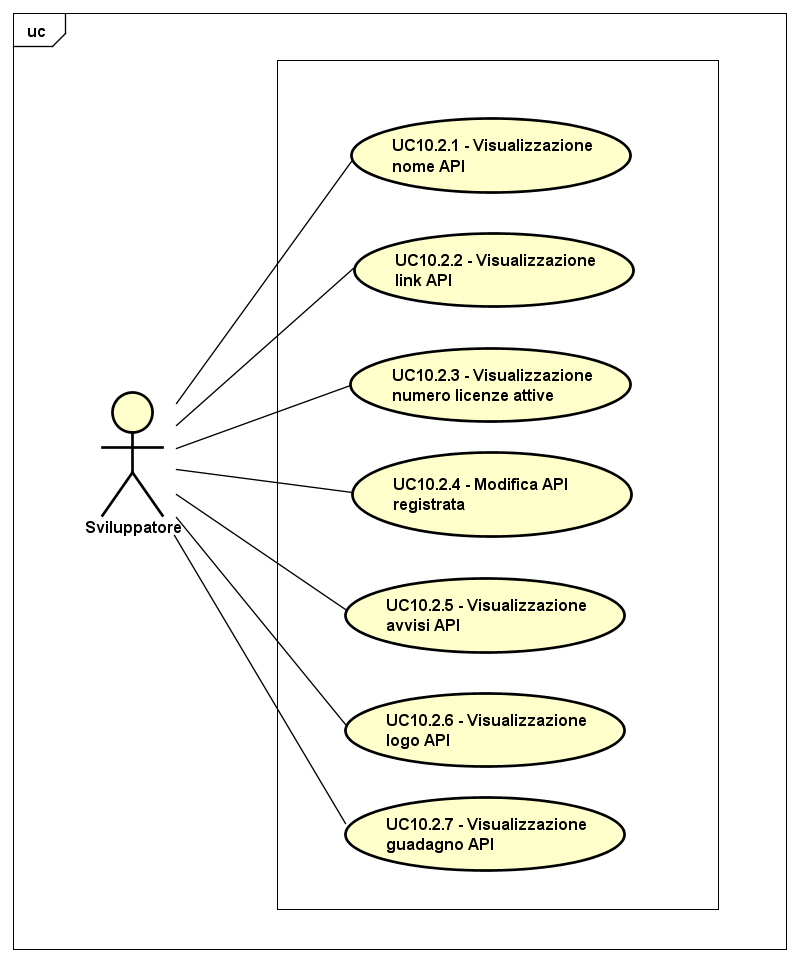
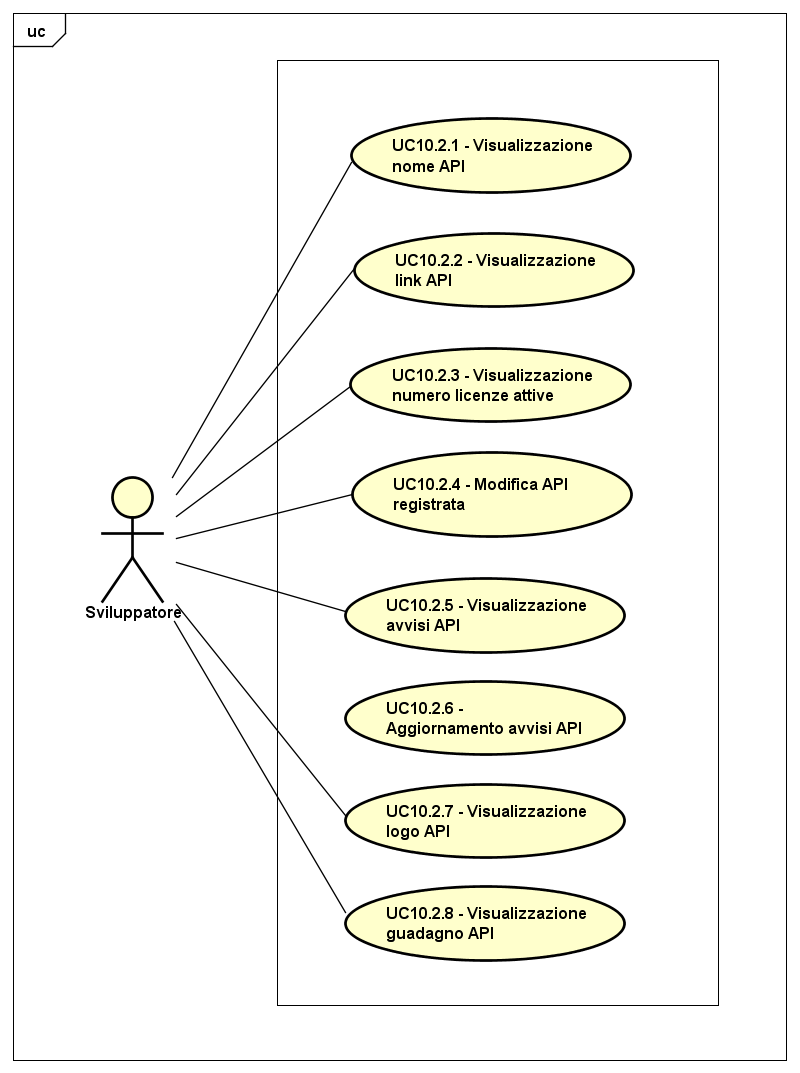
Aggiunte 2 funzionalità
+aggiornamento avvisi da parte dello sviluppatore
+visualizzazione interfaccia tramite testo e link download

diff --git a/Docs/RP/Analisi dei requisiti/includes/UseCase/UC14.tex b/Docs/RP/Analisi dei requisiti/includes/UseCase/UC14.tex
@@ -183,11 +183,11 @@
 \end{minipage}
 
 \newpage
-\subparagraph{Caso d'uso UC14.1.1.1.1.5: Visualizzazione utenti con licenza attiva}
-\label{UC14_1_1_1_1_5}
+\subparagraph{Caso d'uso UC14.1.1.1.5: Visualizzazione utenti con licenza attiva}
+\label{UC14_1_1_1_5}
 \begin{figure}[ht]
 	\centering
-	\includegraphics[scale=0.45]{UML/UC14_1_1_1_1_5.png}
+	\includegraphics[scale=0.45]{UML/UC14_1_1_1_5.png}
 	\caption{UC14.1.1.1.5: Visualizzazione utenti con licenza attiva}
 \end{figure}
 
@@ -195,7 +195,7 @@
 	\begin{tabular}{ l | p{11cm}}
 		\hline
 		\rowcolor{Gray}
-		\multicolumn{2}{c}{UC14.1.1.1.1.5 - Visualizzazione utenti con licenza attiva} \\
+		\multicolumn{2}{c}{UC14.1.1.1.5 - Visualizzazione utenti con licenza attiva} \\
 		\hline
 		\textbf{Attori} & Amministratore API Market \\
 		\textbf{Descrizione} & L'attore ha scelto una API e visualizza una lista di utenti con licenze attive per l'API scelta\\
@@ -203,20 +203,20 @@
 		\textbf{Post-Condizioni} & L'attore ha visualizzato la lista di utenti con licenze attive per l'API scelta \\
 		\textbf{Scenario Principale} & 
 		\begin{enumerate*}[label=(\arabic*.),itemjoin={\newline}]
-			\item L'attore può visualizzare il nome di ogni utente con licenza attiva per l'API scelta (UC14.1.1.1.1.5.1)
-			\item L'attore può visualizzare la data di scadenza della licenza per ogni utente nella lista (UC14.1.1.1.1.5.2)
+			\item L'attore può visualizzare il nome di ogni utente con licenza attiva per l'API scelta (UC14.1.1.1.5.1)
+			\item L'attore può visualizzare la data di scadenza della licenza per ogni utente nella lista (UC14.1.1.1.5.2)
 		\end{enumerate*}\\
 	\end{tabular}
 \end{minipage}
 
-\subparagraph{Caso d'uso UC14.1.1.1.1.5.1: Visualizzazione lista nomi utenti}
-\label{UC14_1_1_1_1_5_1}
+\subparagraph{Caso d'uso UC14.1.1.1.5.1: Visualizzazione lista nomi utenti}
+\label{UC14_1_1_1_5_1}
 
 \begin{minipage}{\linewidth}
 	\begin{tabular}{ l | p{11cm}}
 		\hline
 		\rowcolor{Gray}
-		\multicolumn{2}{c}{UC14.1.1.1.1.5.1 - Visualizzazione lista nomi utenti} \\
+		\multicolumn{2}{c}{UC14.1.1.1.5.1 - Visualizzazione lista nomi utenti} \\
 		\hline
 		\textbf{Attori} & Amministratore API Market \\
 		\textbf{Descrizione} & L'attore ha scelto una API e visualizza il nome dell'utente interessato\\
@@ -229,14 +229,14 @@
 	\end{tabular}
 \end{minipage}
 
-\subparagraph{Caso d'uso UC14.1.1.1.1.5.2: Visualizzazione lista data di scadenza licenza}
-\label{UC14_1_1_1_1_5_2}
+\subparagraph{Caso d'uso UC14.1.1.1.5.2: Visualizzazione lista data di scadenza licenza}
+\label{UC14_1_1_1_5_2}
 
 \begin{minipage}{\linewidth}
 	\begin{tabular}{ l | p{11cm}}
 		\hline
 		\rowcolor{Gray}
-		\multicolumn{2}{c}{UC14.1.1.1.1.5.2 -  Visualizzazione lista data di scadenza licenza} \\
+		\multicolumn{2}{c}{UC14.1.1.1.5.2 -  Visualizzazione lista data di scadenza licenza} \\
 		\hline
 		\textbf{Attori} & Amministratore API Market \\
 		\textbf{Descrizione} & L'attore ha scelto una API e visualizza la data di scadenza per ogni utente della lista degli utenti con licenza attiva per l'API scelta \\
@@ -249,14 +249,14 @@
 	\end{tabular}
 \end{minipage}
 
-\subparagraph{Caso d'uso UC14.1.1.1.1.6: Visualizzazione tempo medio di risposta}
-\label{UC14_1_1_1_1_6}
+\subparagraph{Caso d'uso UC14.1.1.1.6: Visualizzazione tempo medio di risposta}
+\label{UC14_1_1_1_6}
 
 \begin{minipage}{\linewidth}
 	\begin{tabular}{ l | p{11cm}}
 		\hline
 		\rowcolor{Gray}
-		\multicolumn{2}{c}{UC14.1.1.1.1.6 - Visualizzazione tempo medio di risposta} \\
+		\multicolumn{2}{c}{UC14.1.1.1.6 - Visualizzazione tempo medio di risposta} \\
 		\hline
 		\textbf{Attori} & Amministratore API Market \\
 		\textbf{Descrizione} & L'attore ha scelto una API e visualizza il tempo medio di risposta dell'API scelta \\

diff --git a/Docs/RP/Analisi dei requisiti/includes/UseCase/UC7.tex b/Docs/RP/Analisi dei requisiti/includes/UseCase/UC7.tex
@@ -103,7 +103,7 @@
 	\begin{tabular}{ l | p{11cm}}
 		\hline
 		\rowcolor{Gray}
-		\multicolumn{2}{c}{UC7.4 - Visualizzazione tag API} \\
+		\multicolumn{2}{c}{UC7.4 - Visualizzazione categoria API} \\
 		\hline
 		\textbf{Attori} & Utente generico \\
 		\textbf{Descrizione} & L'attore visualizza nella schermata relativa la categoria dell'API \\
@@ -116,8 +116,14 @@
 	\end{tabular}
 \end{minipage}
 
+\newpage
 \subsubsection{Caso d'uso UC7.5: Visualizzazione interfaccia API}
 \label{UC7_5}
+\begin{figure}[ht]
+	\centering
+	\includegraphics[scale=0.45]{UML/UC7_5.png}
+	\caption{UC7.5: Visualizzazione interfaccia API}
+\end{figure}
 
 \begin{minipage}{\linewidth}
 	\begin{tabular}{ l | p{11cm}}
@@ -131,7 +137,48 @@
 		\textbf{Post-Condizioni} & L'attore ha visualizzato l'interfaccia dell'API selezionata \\
 		\textbf{Scenario Principale} & 
 		\begin{enumerate*}[label=(\arabic*.),itemjoin={\newline}]
-			\item L'attore può visualizzare l'interfaccia dell'API selezionata
+			\item L'attore può visualizzare testualmente l'interfaccia dell'API selezionata (UC7.5.1)
+			\item L'attore può visualizzare il link di download dell'interfaccia dell'API selezionata (UC7.5.2)
+		\end{enumerate*}\\
+	\end{tabular}
+\end{minipage}
+
+\paragraph{Caso d'uso UC7.5.1: Visualizzazione testuale interfaccia API}
+\label{UC7_5_1}
+
+\begin{minipage}{\linewidth}
+	\begin{tabular}{ l | p{11cm}}
+		\hline
+		\rowcolor{Gray}
+		\multicolumn{2}{c}{UC7.5.1 - Visualizzazione testuale interfaccia API} \\
+		\hline
+		\textbf{Attori} & Utente generico \\
+		\textbf{Descrizione} & L'attore visualizza testualmente l'interfaccia dell'API \\
+		\textbf{Pre-Condizioni} & L'attore si trova nella schermata di visualizzazione API dell'API precedentemente selezionata \\
+		\textbf{Post-Condizioni} & L'attore ha visualizzato testualmente l'interfaccia dell'API selezionata \\
+		\textbf{Scenario Principale} & 
+		\begin{enumerate*}[label=(\arabic*.),itemjoin={\newline}]
+			\item L'attore può visualizzare testualmente l'interfaccia dell'API selezionata
+		\end{enumerate*}\\
+	\end{tabular}
+\end{minipage}
+
+\paragraph{Caso d'uso UC7.5.2: Visualizzazione link download interfaccia API}
+\label{UC7_5_2}
+
+\begin{minipage}{\linewidth}
+	\begin{tabular}{ l | p{11cm}}
+		\hline
+		\rowcolor{Gray}
+		\multicolumn{2}{c}{UC7.5.2 - Visualizzazione link download interfaccia API} \\
+		\hline
+		\textbf{Attori} & Utente generico \\
+		\textbf{Descrizione} & L'attore visualizza il link di download dell'interfaccia dell'API \\
+		\textbf{Pre-Condizioni} & L'attore si trova nella schermata di visualizzazione API dell'API precedentemente selezionata \\
+		\textbf{Post-Condizioni} & L'attore ha visualizzato il link di download dell'interfaccia dell'API selezionata \\
+		\textbf{Scenario Principale} & 
+		\begin{enumerate*}[label=(\arabic*.),itemjoin={\newline}]
+			\item L'attore può visualizzare il link di download dell'interfaccia dell'API selezionata
 		\end{enumerate*}\\
 	\end{tabular}
 \end{minipage}

diff --git a/Docs/RP/Analisi dei requisiti/includes/UseCase/UC10.tex b/Docs/RP/Analisi dei requisiti/includes/UseCase/UC10.tex
@@ -69,8 +69,9 @@
 			\item L'attore può visualizzare il numero di licenze attive dell'API (UC10.2.3)
 			\item L'attore può modificare l'API (UC10.2.4)
 			\item L'attore può visualizzare gli avvisi riguardo l'API (UC10.2.5)
-			\item L'attore può visualizzare il logo dell'API (UC10.2.6)
-			\item L'attore può visualizzare il guadagno dell'API (UC10.2.7)
+			\item L'attore può aggiornare gli avvisi riguardo allo status dell'API (UC10.2.6)
+			\item L'attore può visualizzare il logo dell'API (UC10.2.7)
+			\item L'attore può visualizzare il guadagno dell'API (UC10.2.8)
 		\end{enumerate*}\\
 	\end{tabular}
 \end{minipage}
@@ -443,14 +444,34 @@
 	\end{tabular}
 \end{minipage}
 
-\paragraph{Caso d'uso UC10.2.6: Visualizzazione logo API}
+\paragraph{Caso d'uso UC10.2.6: Aggiornamento avvisi API}
 \label{UC10_2_6}
 
 \begin{minipage}{\linewidth}
 	\begin{tabular}{ l | p{11cm}}
 		\hline
 		\rowcolor{Gray}
-		\multicolumn{2}{c}{UC10.2.6 - Visualizzazione logo API} \\
+		\multicolumn{2}{c}{UC10.2.6 - Aggiornamento avvisi API} \\
+		\hline
+		\textbf{Attori} & Sviluppatore \\
+		\textbf{Descrizione} & L'attore aggiorna gli avvisi riguardo allo status dell'API \\
+		\textbf{Pre-Condizioni} & L'attore si trova nella schermata relativa alle API da lui registrate \\
+		\textbf{Post-Condizioni} & L'attore ha aggiornato gli avvisi riguardo allo status dell'API \\
+		\textbf{Scenario Principale} & 
+		\begin{enumerate*}[label=(\arabic*.),itemjoin={\newline}]
+			\item L'attore può aggiornare gli avvisi riguardo allo status dell'API
+		\end{enumerate*}\\
+	\end{tabular}
+\end{minipage}
+
+\paragraph{Caso d'uso UC10.2.7: Visualizzazione logo API}
+\label{UC10_2_7}
+
+\begin{minipage}{\linewidth}
+	\begin{tabular}{ l | p{11cm}}
+		\hline
+		\rowcolor{Gray}
+		\multicolumn{2}{c}{UC10.2.7 - Visualizzazione logo API} \\
 		\hline
 		\textbf{Attori} & Sviluppatore \\
 		\textbf{Descrizione} & L'attore visualizza nella lista il logo dell'API \\
@@ -463,14 +484,14 @@
 	\end{tabular}
 \end{minipage}
 
-\paragraph{Caso d'uso UC10.2.7: Visualizzazione guadagno API}
-\label{UC10_2_7}
+\paragraph{Caso d'uso UC10.2.8: Visualizzazione guadagno API}
+\label{UC10_2_8}
 
 \begin{minipage}{\linewidth}
 	\begin{tabular}{ l | p{11cm}}
 		\hline
 		\rowcolor{Gray}
-		\multicolumn{2}{c}{UC10.2.7 - Visualizzazione guadagno API} \\
+		\multicolumn{2}{c}{UC10.2.8 - Visualizzazione guadagno API} \\
 		\hline
 		\textbf{Attori} & Sviluppatore \\
 		\textbf{Descrizione} & L'attore visualizza nella lista il logo dell'API in base alla policy di vendita \\
